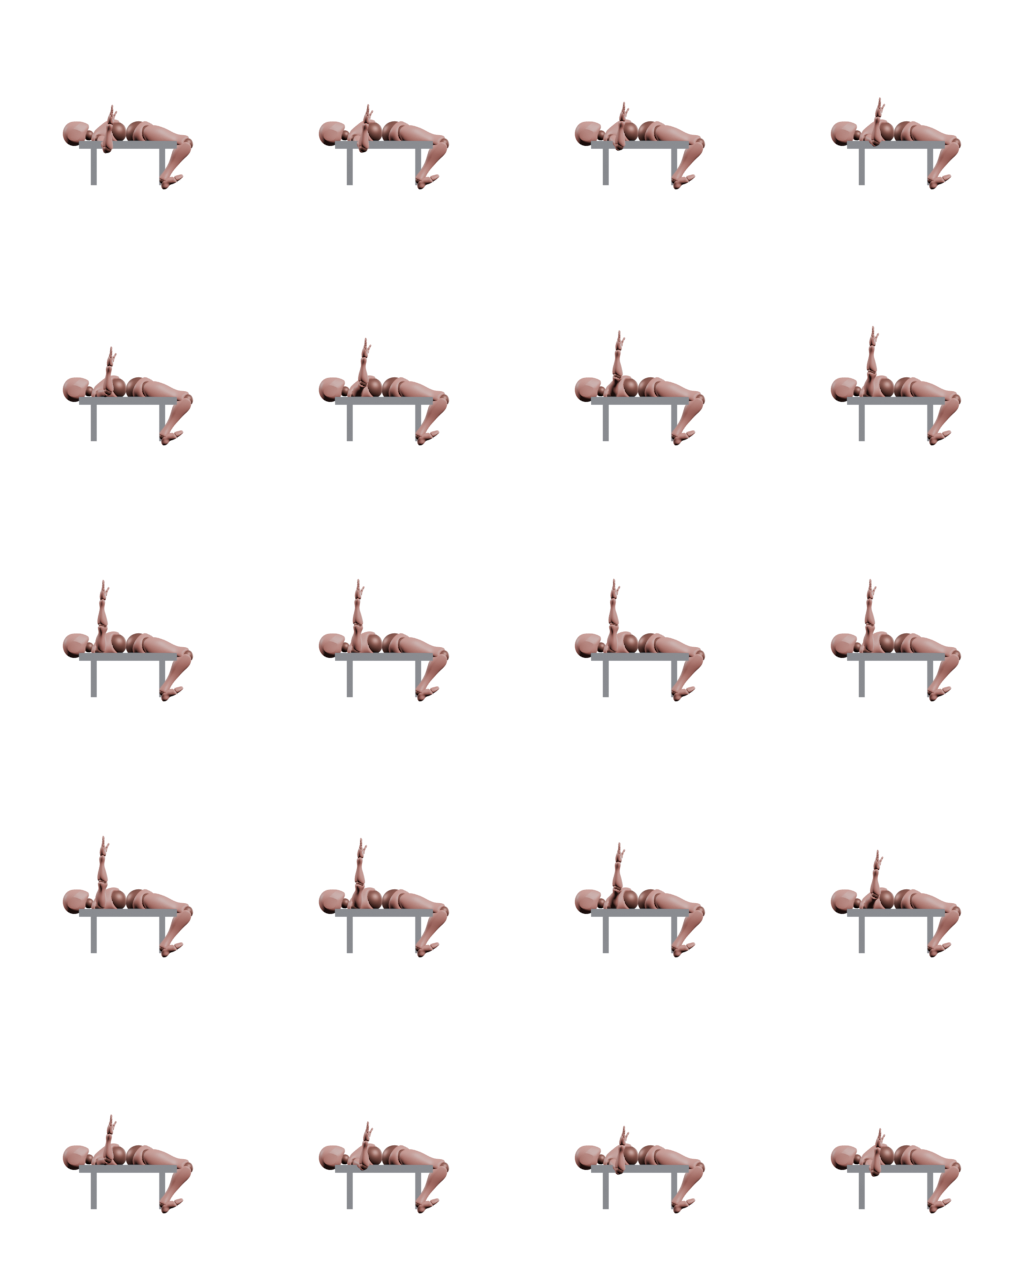
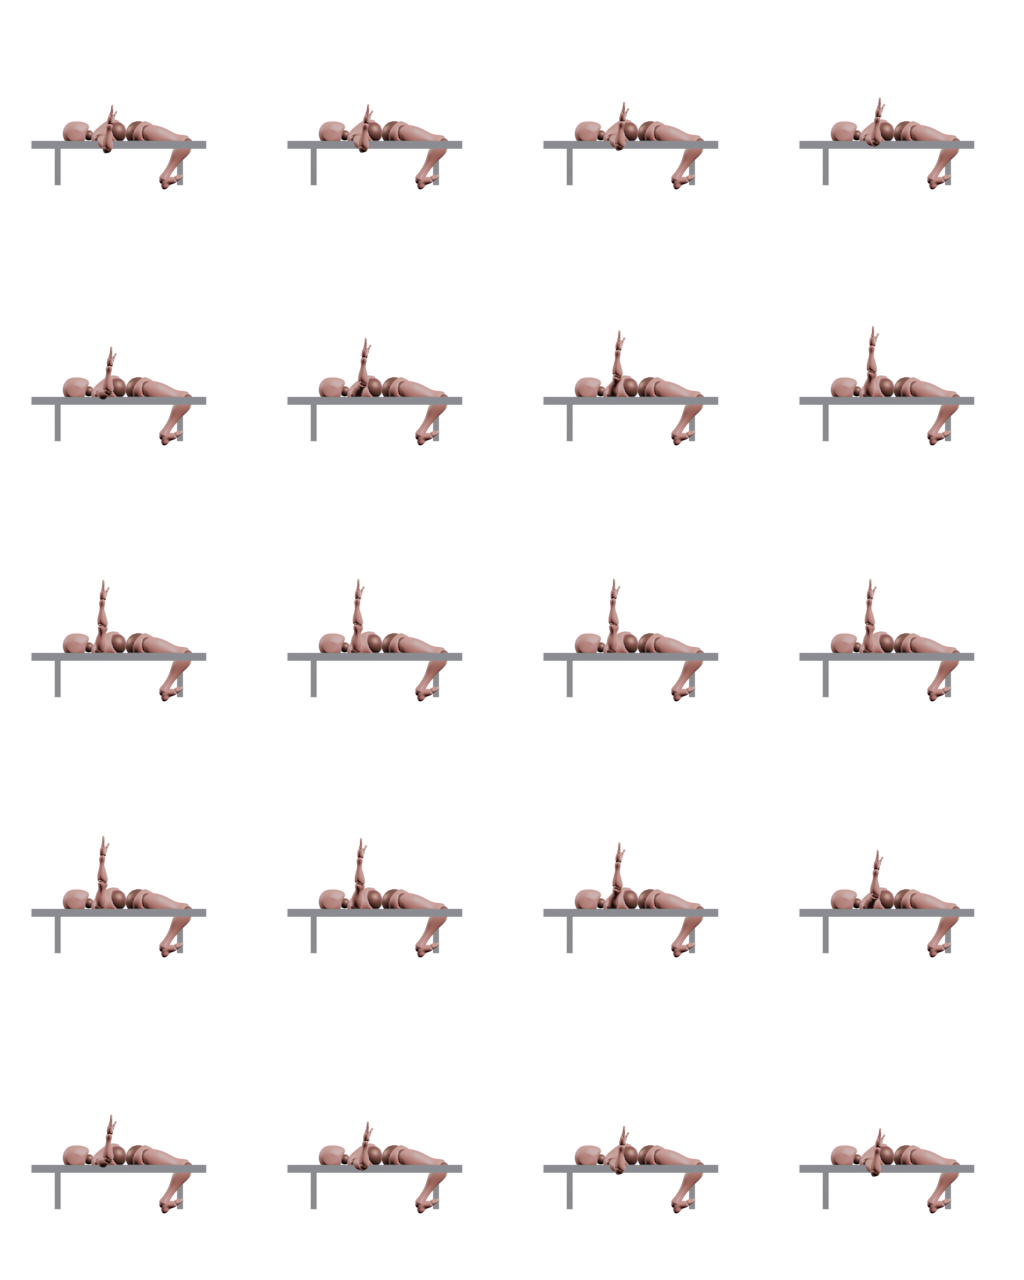
La fente et le développé couché tiennent enfin sur leurs appuis
Suite du lot précédent : les rendus qui tournaient encore sont livrés, et deux
d'entre eux ont demandé une correction de plus.

## La fente a révélé son vrai défaut en étant réparée

Passer de cinq clés doublées à trois clés avec temps d'arrêt déclarés a fait
tomber le saut par image de 3,3 à **4,4** — au-dessus du seuil. Ce n'est pas
une régression : les quatorze images figées d'avant tiraient la moyenne vers le
bas et cachaient un geste qui, une fois vraiment en mouvement, traversait le
cadre trop vite. Quarante-huit images, en vignettes de 192 px, la ramènent à
3,32.

C'est le genre de chose qu'une mesure attrape et qu'un œil laisse passer : le
geste d'avant *paraissait* moins saccadé parce qu'il ne bougeait pas la moitié
du temps.

## Le banc était centré sur le mauvais repère

Il se plaçait sur l'encombrement du geste, lequel comprend les bras levés et
les jambes qui descendent chercher le sol. Son centre tombait donc vers les
pieds, et la tête finissait dans le vide au bout du banc — un corps qui glisse,
exactement la faute qu'on venait de corriger. Il se place maintenant sur le
**tronc**, du sommet du crâne au bassin, lus sur l'armature.

Un `NameError` sur les pieds du banc avait fait échouer le premier rendu en
silence : la variable avait été renommée à la ligne au-dessus. Le lot signalait
bien « pas un dossier », ce qui est le genre de message qu'on ne lit pas.

## État

Vingt-huit planches, toutes propres : même mannequin, images en ordre, grilles
[…]

diff --git a/mobile/src/donnees/planches.ts b/mobile/src/donnees/planches.ts
@@ -180,6 +180,12 @@ export const PLANCHES: Record<string, Planche> = {
   // lui. Sans ce clou, les deux pieds s'écartaient autour d'un bassin
   // immobile : un grand écart, pas un pas.
   //
+  // Quarante-huit images, en vignettes de 192 px. Le passage de cinq clés
+  // doublées à trois clés avec temps d'arrêt déclarés a **révélé** un saut
+  // par image de 4,4 : les quatorze images figées d'avant tiraient la
+  // moyenne vers le bas et cachaient un geste qui, une fois en mouvement,
+  // traversait le cadre trop vite.
+  //
   // Un défaut connu subsiste : au point bas, le pied arrière ne touche pas
   // tout à fait le sol. Il est occulté par le corps dans la vidéo, et
   // l'estimateur le renvoie orteils vers l'arrière, pointant dans le vide. La
@@ -187,7 +193,7 @@ export const PLANCHES: Record<string, Planche> = {
   // cheville sans figer la hauteur du bassin.
   fente: {
     source: require("../../assets/gestes/fente.png"),
-    images: 32,
+    images: 48,
     colonnes: 4,
     duree: 3087,
   },

diff --git a/scripts/rendre-geste.py b/scripts/rendre-geste.py
@@ -512,7 +512,7 @@ def poser_le_banc(hauteur, mini, maxi):
     for cote in (-1, +1):
         bpy.ops.mesh.primitive_cube_add(
             size=1,
-            location=(centre.x, centre.y + cote * banc.scale.y * 0.35,
+            location=(centre_x, milieu_y + cote * banc.scale.y * 0.35,
                       (hauteur - epaisseur) / 2),
         )
         pied = bpy.context.object
